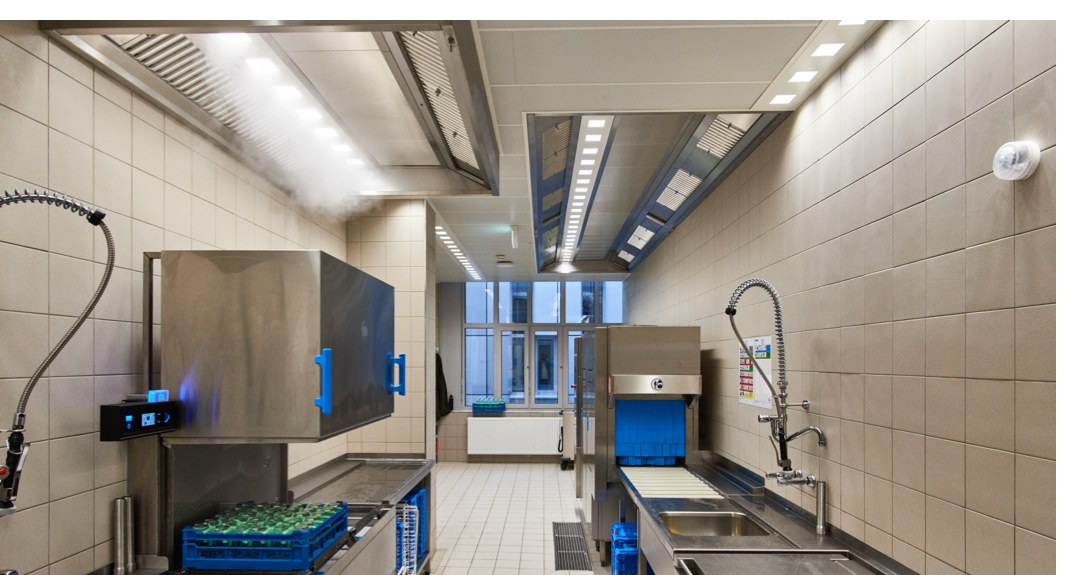
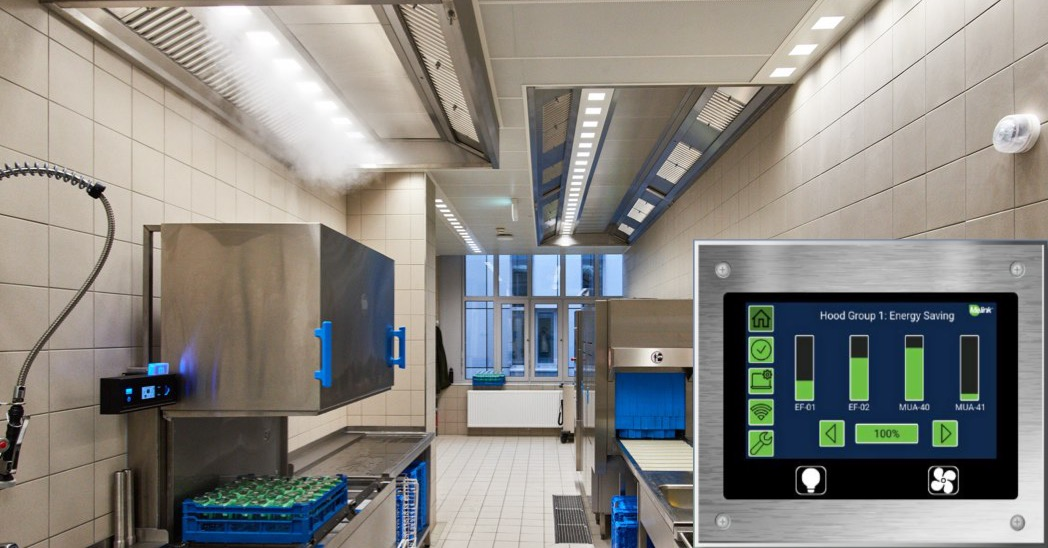
Update product catalog and images
Refine product listings and replace product images: expand the Systemtechnik headline to include Küchenabluftnachbehandlung and Feuerlöschanlagen and change a use case to "Brandschutztechnik"; add two Verdrängungsauslässe products (KLH and KLQ) with descriptions, benefits and points; pluralize product names 'Ozonanlage' and 'Feuerlöschanlage' to 'Ozonanlagen'/'Feuerlöschanlagen' for consistency; update Melink wording from 'IDM' to 'Intelli Hood'; and refresh four product images (feuerloeschanlage, jimco-uvc-abluftnachbehandlung, melink-intelli-hood, ozonanlage).

diff --git a/content/products/_index.md b/content/products/_index.md
@@ -26,12 +26,12 @@ productCategories:
       - "Geschirrspülmaschinen und Bandspülen"
       - "Bereiche mit niedrigen Betriebskosten als Ziel"
   - title: "Systemtechnik"
-    headline: "Bedarfsorientierte Regelung der Luftströme"
+    headline: "Küchenabluftnachbehandlung, Regelung der Luftströme und Feuerlöschanlagen"
     description: "Küchenlöschanlagen, UV-C- und Ozon-Nachbehandlung von Küchenabluft."
     useCases:
       - "Bedarfsgerechte Luftführung"
       - "Reduzierte Reinigungs- und Servicekosten"
-      - "Laufender Betrieb und Instandhaltung"
+      - "Brandschutztechnik"
 products:
   - category: "Lüftungsdecken"
     name: "KL - Küchenlüftungsdecke"
@@ -233,6 +233,35 @@ products:
       - "Vielfältige Anpassungsmöglichkeiten für individuelle Anforderungen"
       - "Steigert die Luftqualität und thermische Behaglichkeit deutlich"
       - "Ausführung Gehäuse und Front in Chromnickelstahl 1.4301, K320 gebürstet, optional beschichtet in jedem gewünschten RAL- bzw. NCS-Farbton, auf Kundenwunsch, kurzfristig lieferbar."
+  - category: "Verdrängungsauslässe"
+    name: "KLH - Laminar Flow System"
+    image: "images/products/qa-quellluftauslass.jpg"
+    headline: "Komfortable und effiziente Frischluftzufuhr"
+    description:
+      - "Deckenintegrierter linearer Verdrängungsauslass in modularer Bauweise. Der KLH Deckenquellluftauslass wurde speziell als Zuluftvorhang zwischen Bereich der Wärmelast und Speisesaal in Schauküchen und Essensausgaben entwickelt – für optisch anspruchsvolle Lösungen."
+      - "Er sorgt für turbulenzfreie Einbringung der Zuluft in den Raum, gewährleistet dadurch die Effizienz der Küchenlüftung und verbessert die Luftqualität in gewerblichen Küchen. Standardmäßig weiß beschichtet in RAL 9010, optional in Chromnickelstahl 1.4301 oder beschichtet in RAL/NCS nach Wahl."
+    pointsTitle: "Wesentliche Vorteile"
+    points:
+      - "Zugfreie Frischluftzufuhr für angenehmes Raumklima"
+      - "Architektonisch hochwertige Integration in moderne Deckensysteme"
+      - "Optimiert Abluftvolumenströme von Hauben und Lüftungsdecken"
+      - "Vielfältige Anpassungsmöglichkeiten für individuelle Anforderungen"
+      - "Steigert die Luftqualität und thermische Behaglichkeit deutlich"
+      - "Ausführung Gehäuse und Front in Chromnickelstahl 1.4301, K320 gebürstet, optional beschichtet in jedem gewünschten RAL- bzw. NCS-Farbton, auf Kundenwunsch, kurzfristig lieferbar."
+  - category: "Verdrängungsauslässe"
+    name: "KLQ - Verdrängungsauslass für Küchenlüftungsdecken"
+    image: "images/products/qa-quellluftauslass.jpg"
+    headline: "Komfortable und effiziente Frischluftzufuhr"
+    description:
+      - "Verdrängungsauslass für Küchenlüftungsdecken KLT sowie für den Einbau in bauseitige Deckensysteme. Der KL-Q Deckenquellluftauslass sorgt für eine turbulenzfreie Einbringung der Zuluft in den Raum – zur Gewährleistung der Effizienz der Küchenlüftung und Verbesserung der Luftqualität in gewerblichen Küchen."
+      - "Deckenquellluftauslässe KL-Q sind eine modulare Lösung zur Zuluftführung in gewerblichen Küchen. Die Zuluft wird zugfrei mit geringer Geschwindigkeit in die Küchenrandbereiche oder zwischen die Küchengeräte oberhalb der Küchenmitarbeiter geleitet."
+    pointsTitle: "Wesentliche Vorteile"
+    points:
+      - "Zugfreie Frischluftzufuhr für angenehmes Raumklima"
+      - "Optimiert Abluftvolumenströme von Hauben und Lüftungsdecken"
+      - "Steigert die Luftqualität und thermische Behaglichkeit deutlich"
+      - "Standardausführung Gehäuse in Stahlblech verzinkt, alternativ in Chromnickelstahl 1.4301"
+      - "Standardausführung Front in Aluminium weiß beschichtet in RAL 9010, alternativ in Chromnickelstahl 1.4301, K320 gebürstet oder beschichtet in jedem gewünschten RAL- bzw. NCS-Farbton, auf Kundenwunsch, kurzfristig lieferbar."
   - category: "Systemtechnik"
     name: "Jimco UV-C-Abluftnachbehandlungsanlage"
     image: "images/products/jimco-uvc-abluftnachbehandlung.jpg"
@@ -247,7 +276,7 @@ products:
       - "Niedrige Wartungs- und Reinigungskosten"
       - "Individuell auf Ihre Küchenanlage abgestimmt"
   - category: "Systemtechnik"
-    name: "Ozonanlage"
+    name: "Ozonanlagen"
     image: "images/products/ozonanlage.jpg"
     headline: "Geruchs- und Fettentfernung auf höchstem Niveau"
     description:
@@ -259,7 +288,7 @@ products:
       - "Problemlos in bestehende Systeme integrierbar"
       - "Unterstützt die Einhaltung von Umwelt- und Hygieneanforderungen"
   - category: "Systemtechnik"
-    name: "Feuerlöschanlage"
+    name: "Feuerlöschanlagen"
     image: "images/products/feuerloeschanlage.jpg"
     headline: "Maximaler Schutz durch moderne Feinsprühtechnik"
     description:
@@ -275,7 +304,7 @@ products:
     image: "images/products/melink-intelli-hood.jpg"
     headline: "Intelligente Luftsteuerung für Energieeffizienz"
     description:
-      - "Mit der Luftmengenregelung IDM passt sich die Luftzufuhr dynamisch an den tatsächlichen Küchenbetrieb an. Spezielle Sensoren erkennen die Nutzung der Küchengeräte präzise, wodurch Energie gespart und hygienische Mindestluftmengen jederzeit sichergestellt werden."
+      - "Mit der Luftmengenregelung Intelli Hood passt sich die Luftzufuhr dynamisch an den tatsächlichen Küchenbetrieb an. Spezielle Sensoren erkennen die Nutzung der Küchengeräte präzise, wodurch Energie gespart und hygienische Mindestluftmengen jederzeit sichergestellt werden."
     pointsTitle: "Pluspunkte"
     points:
       - "Spart Energie durch bedarfsgerechte Luftsteuerung"
